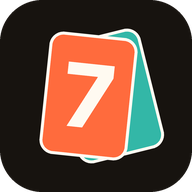
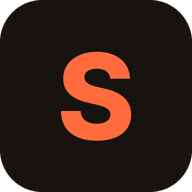
Restore ScoreKrew branding for the multi-game PWA
Keep the installable PWA setup (manifest, network-first service worker,
maskable/apple icons) but name it ScoreKrew again, since it covers all
games, not only Flip 7.

Claude-Session: https://claude.ai/code/session_013csQTPuqWhLCVSkHbyuQF7

Changed region(s): [[0.1875, 0.125, 0.875, 0.875]]

diff --git a/index.html b/index.html
@@ -4,18 +4,18 @@
   <meta charset="UTF-8" />
   <meta name="viewport" content="width=device-width, initial-scale=1, viewport-fit=cover" />
   <meta name="theme-color" content="#17130f" />
-  <meta name="description" content="Compteur de scores pour Flip 7 et vos soirées jeux." />
-  <meta name="application-name" content="Flip 7" />
+  <meta name="description" content="Tous vos jeux. Un seul compteur." />
+  <meta name="application-name" content="ScoreKrew" />
   <meta name="mobile-web-app-capable" content="yes" />
   <meta name="apple-mobile-web-app-capable" content="yes" />
-  <meta name="apple-mobile-web-app-title" content="Flip 7" />
+  <meta name="apple-mobile-web-app-title" content="ScoreKrew" />
   <meta name="apple-mobile-web-app-status-bar-style" content="black-translucent" />
   <link rel="manifest" href="manifest.webmanifest" />
   <link rel="icon" type="image/png" sizes="32x32" href="icons/favicon-32.png" />
   <link rel="icon" type="image/png" sizes="192x192" href="icons/icon-192.png" />
   <link rel="apple-touch-icon" href="icons/apple-touch-icon.png" />
   <link rel="stylesheet" href="styles.css?v=5" />
-  <title>Flip 7</title>
+  <title>ScoreKrew</title>
 </head>
 <body>
   <div id="app"></div>

diff --git a/app.js b/app.js
@@ -41,7 +41,7 @@
   function render() {
     const root = document.getElementById('app');
     const body = state.screen === 'home' ? home() : state.screen === 'players' ? playersScreen() : state.screen === 'game' ? gameScreen() : state.screen === 'result' ? resultScreen() : historyScreen();
-    root.innerHTML = `<main class="shell"><div class="topbar"><div class="brand"><div class="logo">7</div>Flip 7</div><button class="icon-btn" data-action="history">Historique</button></div>${body}</main>`;
+    root.innerHTML = `<main class="shell"><div class="topbar"><div class="brand"><div class="logo">S</div>ScoreKrew</div><button class="icon-btn" data-action="history">Historique</button></div>${body}</main>`;
     bind();
   }
 

diff --git a/sw.js b/sw.js
@@ -1,6 +1,6 @@
 // Network-first: always serve fresh files when online, fall back to the cache offline.
-// Bump CACHE when the asset list changes; old caches (incl. scorekrew-v1) are purged on activate.
-const CACHE = 'flip7-v1';
+// Bump CACHE when the asset list changes; old caches (incl. scorekrew-v1, flip7-v1) are purged on activate.
+const CACHE = 'scorekrew-v2';
 const ASSETS = [
   './',
   './index.html',

diff --git a/README.md b/README.md
@@ -1,6 +1,6 @@
-# Flip 7
+# ScoreKrew
 
-Une PWA mobile-first de comptage de scores pour Flip 7 (et quelques autres jeux).
+Une PWA mobile-first de comptage de scores multi-jeux.
 
 ## Jeux inclus
 - Flip 7
